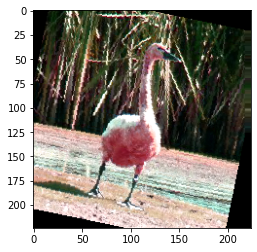
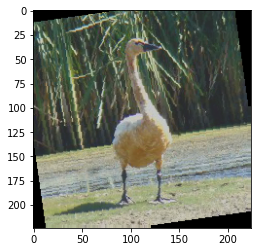
Update with color jitter

diff --git a/README.md b/README.md
@@ -67,14 +67,19 @@ dropout and adding more decay would make it learn too slowly.
 To start off, the only data augmentation I had was random cropping and random 
 horizontal flipping. However, the model was still overfitting, so I decided to 
 add some more augmentation: random rotation and color jitter, which slightly 
-adjusts the brightness, contrast, saturation and hue. Below you can see 
+adjusts the brightness, contrast, saturation and hue. I did not change the hue,
+because I was afraid that a bird could be classified incorrectly (e.g. a swan
+with a pink hue being classified as a flamingo). Below you can see 
 the difference in images before and after the added data augmentation. 
 Original            |With Crop and Flip | With Crop, Flip, Color Jitter, and Rotation
 :-------------------------:|:-------------------------:|:-------------------------:
 ![](figs/original.jpg)  |![](figs/aug.png)|![](figs/extraaug.png)
 
-The results were impressive. Although the accuracy of the training set grew
-more slowly, the testing accuracy was now __% instead of the prior 67.8%.
+The results were interesting. The accuracy of the training set grew
+more slowly, and the testing accuracy was now 66.9% instead of the prior 67.8%.
+Without adding color jitter, it also performed better with an accuracy of 67.5%.
+This may be because the changes in the color may be obscuring the features in
+a way not intended. 
 
 ## What I Learned and What's Next
 While working on this project, I learned that there's no one way to get the 
